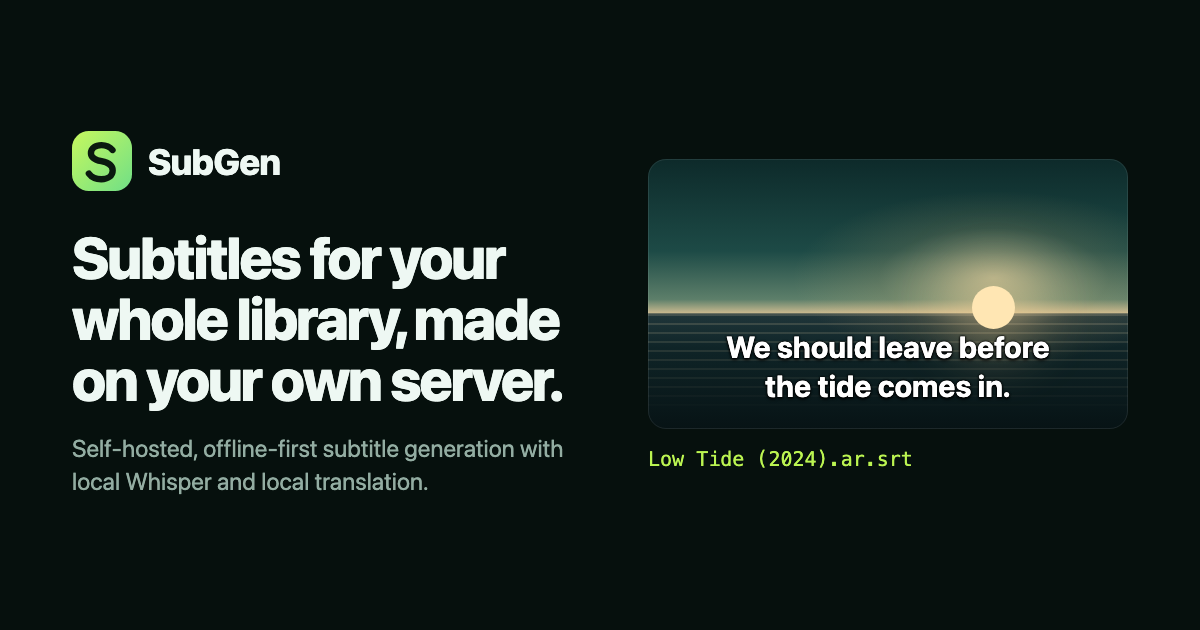
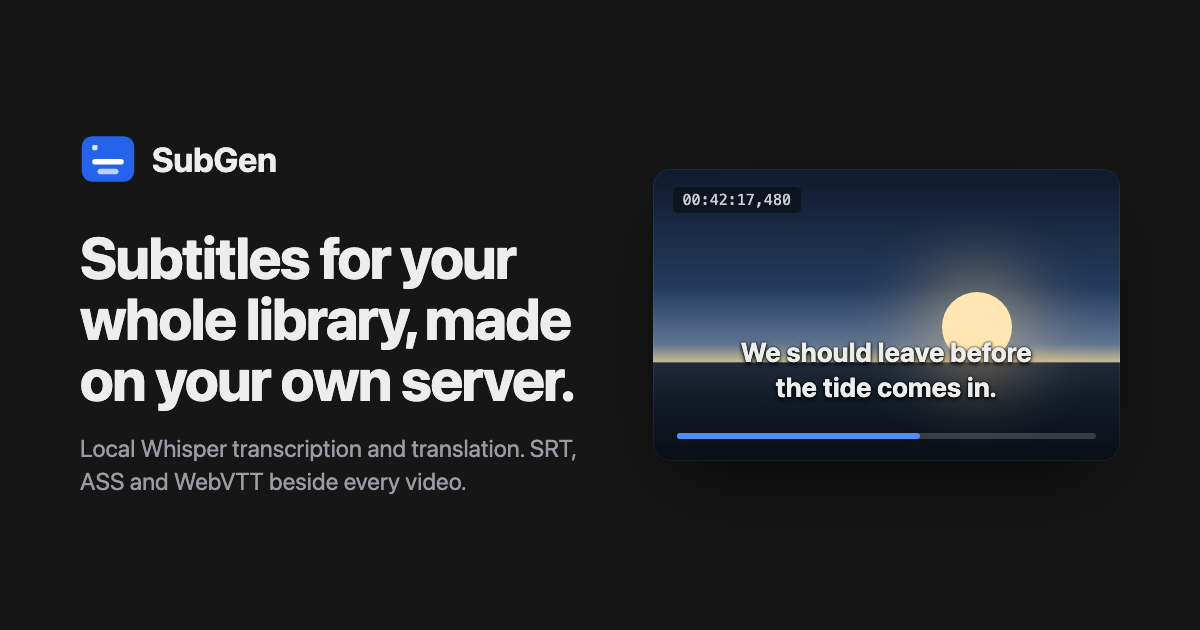
Website: match the web app's grey and blue palette
- Replace the green/lime tokens with the app's neutral greys and signal
  blue in both light and dark mode (same values as tokens.css).
- Use the app's logo mark and favicon; shift the hero illustration from
  teal-green to a neutral blue dusk.
- Re-render the social share image in the new palette.
- Remove the unused ios/android/desktop screenshot folders; SubGen is a
  web app, so only web screenshots are kept.

diff --git a/Website/assets/site.css b/Website/assets/site.css
@@ -6,31 +6,33 @@
   --font-sans: ui-sans-serif, system-ui, -apple-system, "Segoe UI", Roboto, "Helvetica Neue", "Noto Sans", Arial, sans-serif;
   --font-mono: ui-monospace, "SF Mono", SFMono-Regular, Menlo, Consolas, "Liberation Mono", monospace;
 
-  /* Light: cool sage paper with deep green ink */
-  --bg: #f1f5ee;
+  /* Same palette as the web app: true-neutral greys with one signal blue (see
+     subgen/static/css/tokens.css). Light mode. */
+  --bg: #f7f7f8;
   --bg-raised: #ffffff;
   --surface: #ffffff;
-  --surface-2: #e5ede1;
-  --line: #cddbc8;
-  --line-strong: #a9bfa3;
-  --text: #0b2219;
-  --muted: #4a6157;
-  --accent-ink: #3d7a12;   /* lime family, dark enough for text on light */
-  --lime: #bbf451;
-  --lime-ink: #10200f;     /* text placed on a lime fill */
-  --mint: #1f9c74;
-  --warn: #8a5a00;
-  --warn-bg: #fdf1d4;
-  --removed: #b42318;
-  --focus: #2f6b0c;
-  --shadow: 0 1px 0 rgba(11, 34, 25, .04), 0 18px 40px -24px rgba(11, 34, 25, .35);
+  --surface-2: #efeff1;
+  --line: #e2e2e6;
+  --line-strong: #c9c9d0;
+  --text: #18181b;
+  --muted: #62626a;
+  --accent-ink: #2563eb;   /* blue, text-safe on white */
+  --accent: #2563eb;       /* primary fills */
+  --accent-hover: #1d4fd8;
+  --accent-fg: #ffffff;    /* text placed on an accent fill */
+  --mint: #0e7490;         /* secondary signal (cache, success ticks) */
+  --warn: #a15c07;
+  --warn-bg: #fcf1dc;
+  --removed: #c42525;
+  --focus: #2563eb;
+  --shadow: 0 1px 0 rgba(0, 0, 0, .03), 0 18px 40px -24px rgba(0, 0, 0, .28);
 
   /* Things that are always "on screen" (frame, terminal) stay dark in both modes */
-  --screen: #06100d;
-  --screen-2: #0b1814;
-  --screen-line: #20372f;
-  --screen-text: #eef8f3;
-  --screen-muted: #8ba59a;
+  --screen: #161617;
+  --screen-2: #1e1e20;
+  --screen-line: #2f2f33;
+  --screen-text: #ededee;
+  --screen-muted: #9b9ba3;
 
   --radius-lg: 16px;
   --radius: 10px;
@@ -41,20 +43,23 @@
 
 @media (prefers-color-scheme: dark) {
   :root {
-    --bg: #06100d;
-    --bg-raised: #08140f;
-    --surface: #0b1814;
-    --surface-2: #10221c;
-    --line: #20372f;
-    --line-strong: #345247;
-    --text: #eef8f3;
-    --muted: #93ada2;
-    --accent-ink: #bbf451;
-    --mint: #49d6a7;
-    --warn: #f6c85f;
-    --warn-bg: #2a230d;
-    --removed: #ff8990;
-    --focus: #bbf451;
+    --bg: #161617;
+    --bg-raised: #1a1a1c;
+    --surface: #1e1e20;
+    --surface-2: #242427;
+    --line: #2f2f33;
+    --line-strong: #45454b;
+    --text: #ededee;
+    --muted: #9b9ba3;
+    --accent-ink: #6ea2ff;
+    --accent: #2f6be8;
+    --accent-hover: #2860d6;
+    --accent-fg: #ffffff;
+    --mint: #5fcde3;
+    --warn: #e5b04a;
+    --warn-bg: #33270f;
+    --removed: #f2726d;
+    --focus: #6ea2ff;
     --shadow: 0 1px 0 rgba(255, 255, 255, .02), 0 24px 60px -30px rgba(0, 0, 0, .8);
   }
 }
@@ -85,7 +90,7 @@ code, kbd, pre, samp { font-family: var(--font-mono); font-size: .9em; }
 
 .skip-link {
   position: absolute; left: 12px; top: -60px; z-index: 50;
-  background: var(--lime); color: var(--lime-ink); padding: 10px 14px;
+  background: var(--accent); color: var(--accent-fg); padding: 10px 14px;
   border-radius: var(--radius-sm); font-weight: 700; text-decoration: none;
 }
 .skip-link:focus { top: 12px; }
@@ -125,8 +130,8 @@ h3 { font-size: 1.375rem; font-weight: 750; letter-spacing: -.012em; line-height
   text-decoration: none; color: var(--muted); font-size: .95rem; font-weight: 550;
 }
 .site-nav a:hover { color: var(--text); background: var(--surface-2); }
-.site-nav .nav-cta a { color: var(--lime-ink); background: var(--lime); font-weight: 700; }
-.site-nav .nav-cta a:hover { background: #c9fb6e; color: var(--lime-ink); }
+.site-nav .nav-cta a { color: var(--accent-fg); background: var(--accent); font-weight: 700; }
+.site-nav .nav-cta a:hover { background: var(--accent-hover); color: var(--accent-fg); }
 
 @media (max-width: 860px) {
   .site-nav .nav-optional { display: none; }
@@ -141,8 +146,8 @@ h3 { font-size: 1.375rem; font-weight: 750; letter-spacing: -.012em; line-height
   border: 1px solid var(--line-strong); background: transparent; color: var(--text);
 }
 .button:hover { border-color: var(--text); }
-.button-primary { background: var(--lime); border-color: var(--lime); color: var(--lime-ink); }
-.button-primary:hover { background: #c9fb6e; border-color: #c9fb6e; }
+.button-primary { background: var(--accent); border-color: var(--accent); color: var(--accent-fg); }
+.button-primary:hover { background: var(--accent-hover); border-color: var(--accent-hover); }
 .button svg { width: 18px; height: 18px; }
 
 /* ---------- Hero ---------- */
@@ -163,8 +168,8 @@ h3 { font-size: 1.375rem; font-weight: 750; letter-spacing: -.012em; line-height
   border-radius: var(--radius-lg);
   background:
     radial-gradient(60% 46% at 72% 44%, rgba(255, 226, 170, .55), rgba(255, 196, 120, .12) 40%, transparent 70%),
-    linear-gradient(180deg, #0d2a2a 0%, #1d4a46 34%, #5d7f6a 52%, #c8b98f 57%, #20363a 57.4%, #0f2427 70%, #071315 100%);
-  box-shadow: 0 30px 80px -40px rgba(4, 20, 14, .9), inset 0 0 0 1px rgba(255, 255, 255, .06);
+    linear-gradient(180deg, #0f1a2c 0%, #233a5a 34%, #5f7491 52%, #c8b98f 57%, #1f2a3a 57.4%, #121a26 70%, #0a0e15 100%);
+  box-shadow: 0 30px 80px -40px rgba(0, 0, 0, .85), inset 0 0 0 1px rgba(255, 255, 255, .06);
   isolation: isolate;
   outline: 1px solid rgba(255, 255, 255, .09); outline-offset: -1px;
 }
@@ -182,13 +187,13 @@ h3 { font-size: 1.375rem; font-weight: 750; letter-spacing: -.012em; line-height
   width: 9%; aspect-ratio: 1; left: 67.5%; top: 47%;
   border-radius: 50%; background: #ffe6b3; box-shadow: 0 0 60px 18px rgba(255, 214, 150, .45);
 }
-.frame-silhouette { position: absolute; inset: auto 0 0 0; height: 62%; z-index: -1; color: #03100d; }
+.frame-silhouette { position: absolute; inset: auto 0 0 0; height: 62%; z-index: -1; color: #06080c; }
 .frame-silhouette svg { width: 100%; height: 100%; }
 .frame-meta {
   position: absolute; top: 14px; left: 16px; right: 16px; display: flex; justify-content: space-between; gap: 12px;
-  font-family: var(--font-mono); font-size: .78rem; color: rgba(238, 248, 243, .78);
+  font-family: var(--font-mono); font-size: .78rem; color: rgba(237, 237, 238, .8);
 }
-.frame-meta span { background: rgba(4, 14, 11, .55); padding: 3px 8px; border-radius: 4px; }
+.frame-meta span { background: rgba(10, 10, 12, .55); padding: 3px 8px; border-radius: 4px; }
 
 .cue {
   position: absolute; left: 6%; right: 6%; bottom: 8%;
@@ -210,14 +215,14 @@ h3 { font-size: 1.375rem; font-weight: 750; letter-spacing: -.012em; line-height
 .timeline-cues { position: relative; height: 22px; margin-bottom: 8px; }
 .timeline-cues span {
   position: absolute; top: 0; bottom: 0; display: flex; align-items: center; padding-inline: 8px;
-  border-radius: 4px; background: #14291f; border: 1px solid #23402f;
+  border-radius: 4px; background: #242427; border: 1px solid #3a3a40;
   font-family: var(--font-mono); font-size: .72rem; color: var(--screen-muted); overflow: hidden; white-space: nowrap;
 }
-.timeline-cues span.is-active { background: rgba(187, 244, 81, .16); border-color: #bbf451; color: #e9ffc2; }
-.timeline-wave { height: 40px; width: 100%; color: #2c5a45; }
-.timeline-wave .wave-active { color: #9fdc4a; }
-.playhead { position: absolute; top: 6px; bottom: 6px; left: 49%; width: 2px; background: #bbf451; border-radius: 2px; box-shadow: 0 0 10px rgba(187, 244, 81, .7); }
-.playhead::before { content: ""; position: absolute; top: -2px; left: -4px; width: 10px; height: 6px; border-radius: 2px; background: #bbf451; }
+.timeline-cues span.is-active { background: rgba(76, 141, 255, .18); border-color: #4c8dff; color: #dbe7ff; }
+.timeline-wave { height: 40px; width: 100%; color: #3a3a40; }
+.timeline-wave .wave-active { color: #4c8dff; }
+.playhead { position: absolute; top: 6px; bottom: 6px; left: 49%; width: 2px; background: #4c8dff; border-radius: 2px; box-shadow: 0 0 10px rgba(76, 141, 255, .7); }
+.playhead::before { content: ""; position: absolute; top: -2px; left: -4px; width: 10px; height: 6px; border-radius: 2px; background: #4c8dff; }
 @media (prefers-reduced-motion: no-preference) {
   .player.is-playing .playhead { animation: scrub 3.2s linear infinite; }
 }
@@ -331,7 +336,7 @@ h3 { font-size: 1.375rem; font-weight: 750; letter-spacing: -.012em; line-height
 .scan .file { font-family: var(--font-mono); font-size: .84rem; overflow-wrap: anywhere; }
 .scan .file small { display: block; color: var(--muted); font-size: .8rem; margin-top: 2px; }
 .verdict { font-size: .85rem; font-weight: 700; padding: 2px 10px; border-radius: 999px; justify-self: start; white-space: nowrap; }
-.v-queue { background: var(--lime); color: var(--lime-ink); }
+.v-queue { background: var(--accent); color: var(--accent-fg); }
 .v-skip { background: var(--surface-2); color: var(--text); border: 1px solid var(--line); }
 .v-ignore { color: var(--muted); border: 1px dashed var(--line-strong); }
 .v-prune { color: var(--removed); border: 1px solid currentColor; }
@@ -419,13 +424,13 @@ h3 { font-size: 1.375rem; font-weight: 750; letter-spacing: -.012em; line-height
 }
 .code-head { display: flex; justify-content: space-between; align-items: center; gap: 12px; padding: 6px 8px 6px 14px; border-bottom: 1px solid var(--screen-line); font-size: .8rem; color: var(--screen-muted); font-family: var(--font-mono); }
 .code pre { margin: 0; padding: 14px 16px 16px; overflow-x: auto; font-size: .86rem; line-height: 1.65; tab-size: 2; }
-.code .c { color: #7f9a8f; }
+.code .c { color: #8b8b94; }
 .copy {
   font: inherit; font-family: var(--font-sans); font-size: .8rem; font-weight: 650; cursor: pointer;
-  min-height: 30px; padding: 4px 12px; border-radius: 999px; border: 1px solid var(--screen-line); background: #10221c; color: var(--screen-text);
+  min-height: 30px; padding: 4px 12px; border-radius: 999px; border: 1px solid var(--screen-line); background: #242427; color: var(--screen-text);
 }
-.copy:hover { border-color: #496557; }
-.copy[data-state="done"] { background: #bbf451; color: #10200f; border-color: #bbf451; }
+.copy:hover { border-color: #55555c; }
+.copy[data-state="done"] { background: var(--accent); color: var(--accent-fg); border-color: var(--accent); }
 .copy[hidden] { display: none; }
 
 .callout { margin-top: 48px; display: grid; gap: 8px 28px; padding: 20px 22px; border-radius: var(--radius); border: 1px solid var(--line); background: var(--surface); }

diff --git a/Website/index.html b/Website/index.html
@@ -6,8 +6,8 @@
   <title>SubGen: self-hosted, offline subtitle generator for media libraries</title>
   <meta name="description" content="SubGen scans your media libraries, transcribes audio with faster-whisper on CPU or NVIDIA GPU, translates with local models, and writes SRT, ASS and WebVTT sidecars beside every file. Self-hosted and offline-first.">
   <meta name="color-scheme" content="light dark">
-  <meta name="theme-color" content="#f1f5ee" media="(prefers-color-scheme: light)">
-  <meta name="theme-color" content="#06100d" media="(prefers-color-scheme: dark)">
+  <meta name="theme-color" content="#f7f7f8" media="(prefers-color-scheme: light)">
+  <meta name="theme-color" content="#161617" media="(prefers-color-scheme: dark)">
   <link rel="canonical" href="https://fahed-alhammadi.github.io/SubGen/">
   <link rel="icon" href="favicon.svg" type="image/svg+xml">
 
@@ -34,7 +34,7 @@
   <header class="site-header">
     <div class="wrap header-row">
       <a class="brand" href="./" aria-label="SubGen home">
-        <svg class="brand-mark" viewBox="0 0 32 32" aria-hidden="true"><defs><linearGradient id="bm" x1="0" y1="0" x2="1" y2="1"><stop offset="0" stop-color="#c6f85e"/><stop offset="1" stop-color="#70df87"/></linearGradient></defs><rect width="32" height="32" rx="9" fill="url(#bm)"/><path d="M21.6 10.1c-1.5-1.8-3.6-2.6-5.9-2.6-3.2 0-5.6 1.7-5.6 4.3 0 2.7 2.4 3.6 5.6 4.3 3.4.7 6 1.9 6 4.9 0 2.8-2.5 4.7-6.1 4.7-2.7 0-5.1-1-6.6-3" fill="none" stroke="#0a190f" stroke-width="3.4" stroke-linecap="round"/></svg>
+        <svg class="brand-mark" viewBox="0 0 32 32" aria-hidden="true"><rect x="1" y="3" width="30" height="26" rx="6" fill="#2563eb"/><rect x="7" y="16" width="18" height="3.2" rx="1.6" fill="#fff"/><rect x="10" y="21.5" width="12" height="3.2" rx="1.6" fill="#fff" opacity=".7"/><rect x="7" y="8" width="3" height="3" rx=".8" fill="#fff" opacity=".85"/></svg>
         <span>SubGen</span>
       </a>
       <nav class="site-nav" aria-label="Main">
@@ -518,7 +518,7 @@ SUBGEN_SECRET_KEY=replace-with-at-least-32-random-characters</code></pre>
     <div class="wrap">
       <div class="footer-row">
         <a class="brand" href="./" aria-label="SubGen home">
-          <svg class="brand-mark" viewBox="0 0 32 32" aria-hidden="true"><rect width="32" height="32" rx="9" fill="#bbf451"/><path d="M21.6 10.1c-1.5-1.8-3.6-2.6-5.9-2.6-3.2 0-5.6 1.7-5.6 4.3 0 2.7 2.4 3.6 5.6 4.3 3.4.7 6 1.9 6 4.9 0 2.8-2.5 4.7-6.1 4.7-2.7 0-5.1-1-6.6-3" fill="none" stroke="#0a190f" stroke-width="3.4" stroke-linecap="round"/></svg>
+          <svg class="brand-mark" viewBox="0 0 32 32" aria-hidden="true"><rect x="1" y="3" width="30" height="26" rx="6" fill="#2563eb"/><rect x="7" y="16" width="18" height="3.2" rx="1.6" fill="#fff"/><rect x="10" y="21.5" width="12" height="3.2" rx="1.6" fill="#fff" opacity=".7"/><rect x="7" y="8" width="3" height="3" rx=".8" fill="#fff" opacity=".85"/></svg>
           <span>SubGen</span>
         </a>
         <ul class="footer-links">

diff --git a/Website/privacy.html b/Website/privacy.html
@@ -6,8 +6,8 @@
   <title>Privacy policy | SubGen</title>
   <meta name="description" content="SubGen is self-hosted. This website and the SubGen application collect no analytics or personal data, and your media stays on your server.">
   <meta name="color-scheme" content="light dark">
-  <meta name="theme-color" content="#f1f5ee" media="(prefers-color-scheme: light)">
-  <meta name="theme-color" content="#06100d" media="(prefers-color-scheme: dark)">
+  <meta name="theme-color" content="#f7f7f8" media="(prefers-color-scheme: light)">
+  <meta name="theme-color" content="#161617" media="(prefers-color-scheme: dark)">
   <link rel="canonical" href="https://fahed-alhammadi.github.io/SubGen/privacy.html">
   <link rel="icon" href="favicon.svg" type="image/svg+xml">
   <meta property="og:type" content="website">
@@ -25,7 +25,7 @@
   <header class="site-header">
     <div class="wrap header-row">
       <a class="brand" href="./" aria-label="SubGen home">
-        <svg class="brand-mark" viewBox="0 0 32 32" aria-hidden="true"><defs><linearGradient id="bm" x1="0" y1="0" x2="1" y2="1"><stop offset="0" stop-color="#c6f85e"/><stop offset="1" stop-color="#70df87"/></linearGradient></defs><rect width="32" height="32" rx="9" fill="url(#bm)"/><path d="M21.6 10.1c-1.5-1.8-3.6-2.6-5.9-2.6-3.2 0-5.6 1.7-5.6 4.3 0 2.7 2.4 3.6 5.6 4.3 3.4.7 6 1.9 6 4.9 0 2.8-2.5 4.7-6.1 4.7-2.7 0-5.1-1-6.6-3" fill="none" stroke="#0a190f" stroke-width="3.4" stroke-linecap="round"/></svg>
+        <svg class="brand-mark" viewBox="0 0 32 32" aria-hidden="true"><rect x="1" y="3" width="30" height="26" rx="6" fill="#2563eb"/><rect x="7" y="16" width="18" height="3.2" rx="1.6" fill="#fff"/><rect x="10" y="21.5" width="12" height="3.2" rx="1.6" fill="#fff" opacity=".7"/><rect x="7" y="8" width="3" height="3" rx=".8" fill="#fff" opacity=".85"/></svg>
         <span>SubGen</span>
       </a>
       <nav class="site-nav" aria-label="Main">
@@ -75,7 +75,7 @@
     <div class="wrap">
       <div class="footer-row">
         <a class="brand" href="./" aria-label="SubGen home">
-          <svg class="brand-mark" viewBox="0 0 32 32" aria-hidden="true"><rect width="32" height="32" rx="9" fill="#bbf451"/><path d="M21.6 10.1c-1.5-1.8-3.6-2.6-5.9-2.6-3.2 0-5.6 1.7-5.6 4.3 0 2.7 2.4 3.6 5.6 4.3 3.4.7 6 1.9 6 4.9 0 2.8-2.5 4.7-6.1 4.7-2.7 0-5.1-1-6.6-3" fill="none" stroke="#0a190f" stroke-width="3.4" stroke-linecap="round"/></svg>
+          <svg class="brand-mark" viewBox="0 0 32 32" aria-hidden="true"><rect x="1" y="3" width="30" height="26" rx="6" fill="#2563eb"/><rect x="7" y="16" width="18" height="3.2" rx="1.6" fill="#fff"/><rect x="10" y="21.5" width="12" height="3.2" rx="1.6" fill="#fff" opacity=".7"/><rect x="7" y="8" width="3" height="3" rx=".8" fill="#fff" opacity=".85"/></svg>
           <span>SubGen</span>
         </a>
         <ul class="footer-links">

diff --git a/Website/404.html b/Website/404.html
@@ -11,7 +11,7 @@
   <link rel="stylesheet" href="/SubGen/assets/site.css">
   <style>
     .lost { min-height: 100vh; display: grid; place-content: center; padding: 40px 16px; }
-    .lost-frame { position: relative; width: min(560px, 100%); aspect-ratio: 16 / 9; border-radius: 14px; background: linear-gradient(180deg, #0d2a2a, #071315); display: grid; align-items: end; justify-items: center; padding-bottom: 7%; }
+    .lost-frame { position: relative; width: min(560px, 100%); aspect-ratio: 16 / 9; border-radius: 14px; background: linear-gradient(180deg, #1a2b45, #0a0e15); display: grid; align-items: end; justify-items: center; padding-bottom: 7%; }
     .lost-frame p { margin: 0; color: #fff; font-weight: 700; text-align: center; font-size: clamp(1rem, .7rem + 1.4vw, 1.4rem); line-height: 1.3; text-shadow: 0 0 2px #000, 0 2px 3px #000; }
     .lost h1 { margin-top: 28px; font-size: clamp(1.8rem, 1.4rem + 1.6vw, 2.4rem); }
     .lost .lede { margin-top: 10px; }
